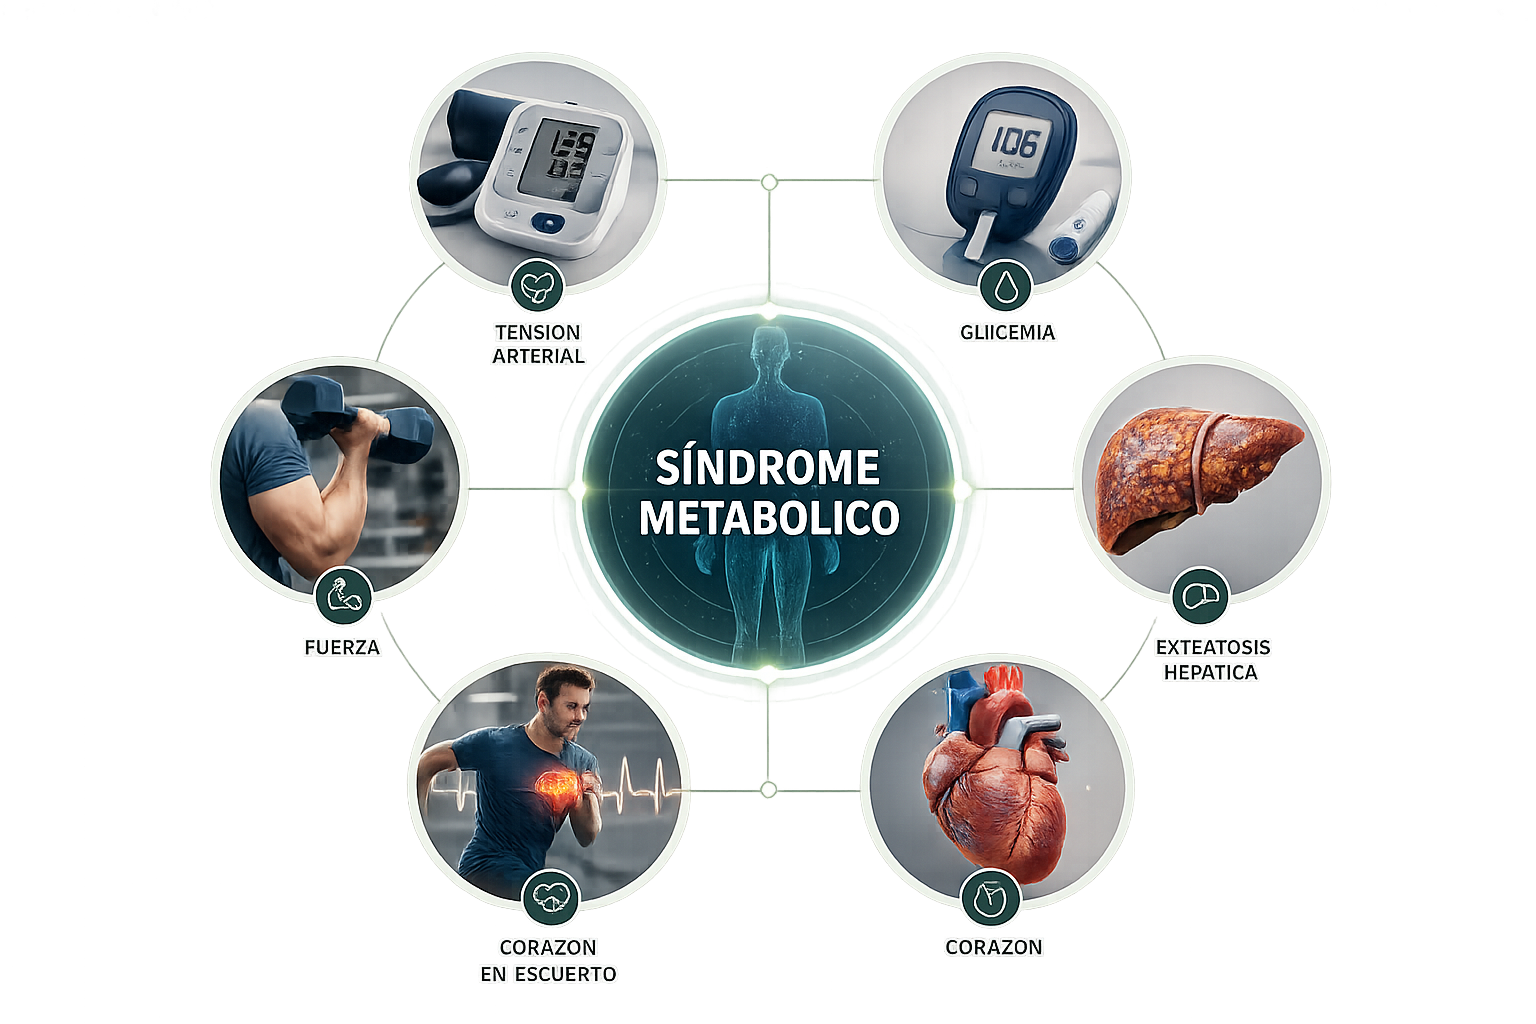
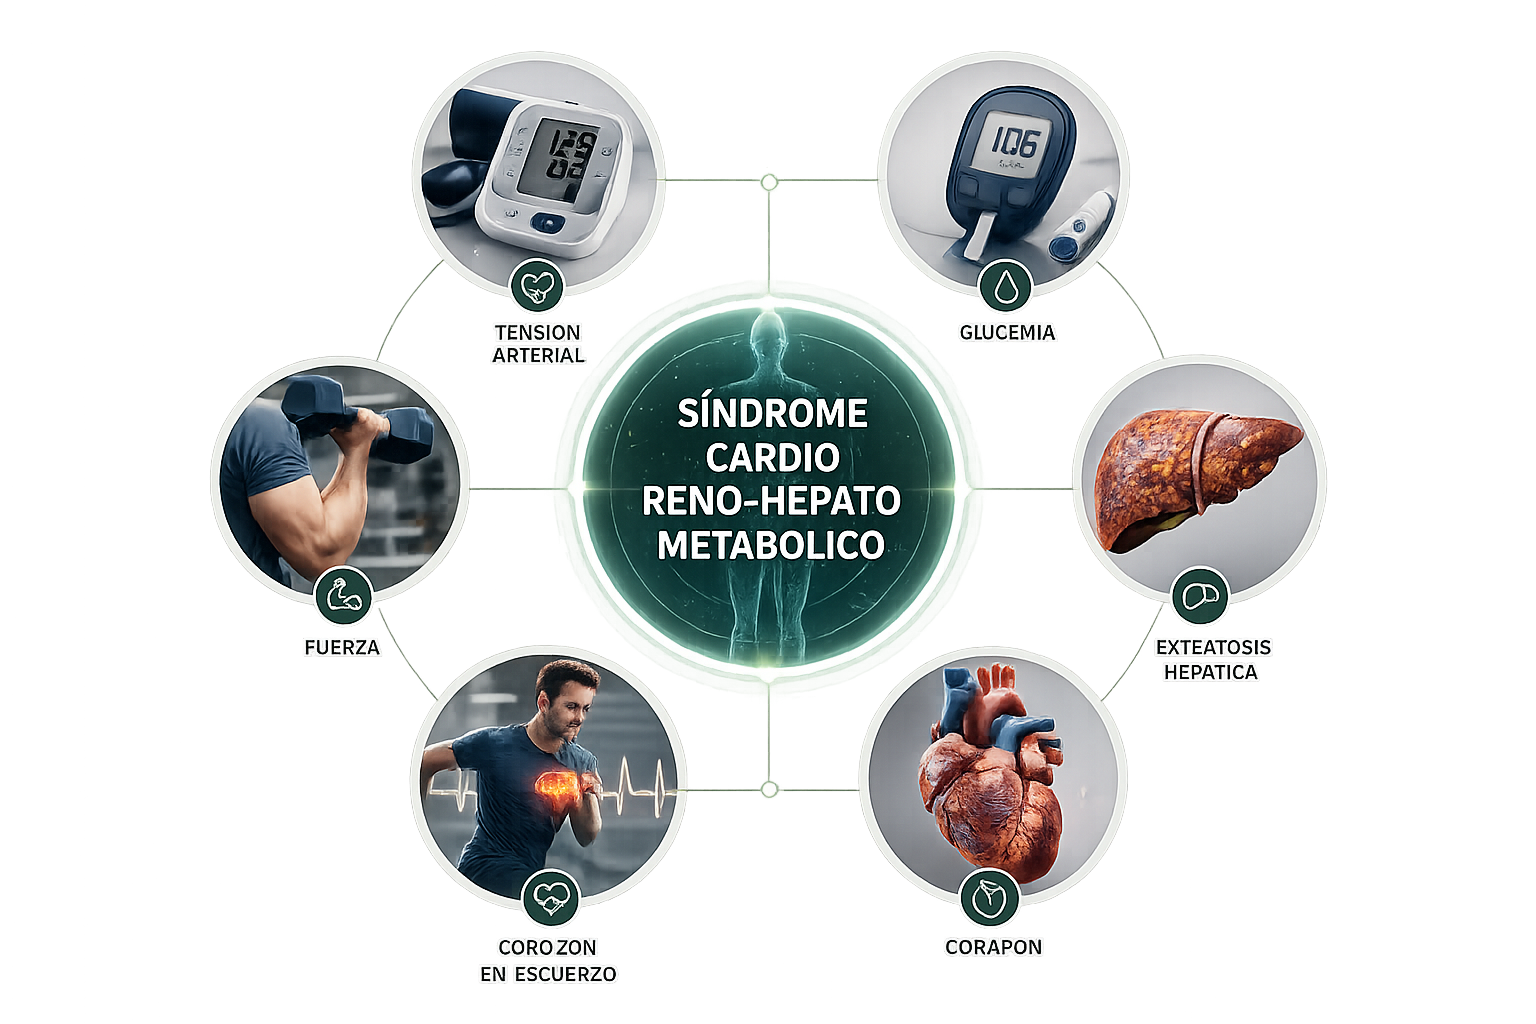
feat: update about section and hero image
- Replace Wix CDN photo with local christopher.png
- Add SIAC membership to bio
- Replace heroBg with síndrome cardio-reno-hepato-metabólico diagram

diff --git a/components/About.tsx b/components/About.tsx
@@ -8,7 +8,7 @@ export default function About() {
           <div className={styles.imageWrap}>
             {/* eslint-disable-next-line @next/next/no-img-element */}
             <img
-              src="https://static.wixstatic.com/media/d8c902_22e82ae853794421a5700bb70c5ffcca~mv2.png/v1/fill/w_335,h_416,al_c,q_85,usm_0.66_1.00_0.01,enc_avif,quality_auto/d8c902_22e82ae853794421a5700bb70c5ffcca~mv2.png"
+              src="/images/christopher.png"
               alt="Christofer Gordon"
               className={styles.portrait}
             />
@@ -49,6 +49,7 @@ export default function About() {
             Profesor en Educación Física. Docente universitario con mas de 10 años
             de experiencia, instructor de RCP, DEA y desobstrucción de vía aérea
             en el Hospital Universitario Integrado de la Facultad de Ciencias Médicas.
+            Miembro adherente de la <strong>SIAC (Sociedad Interamericana de Cardiología)</strong>.
           </p>
           <p className={styles.body}>
             Con posgrados en <strong>cardiología del ejercicio</strong>, <strong>diabetes</strong>,{' '}
